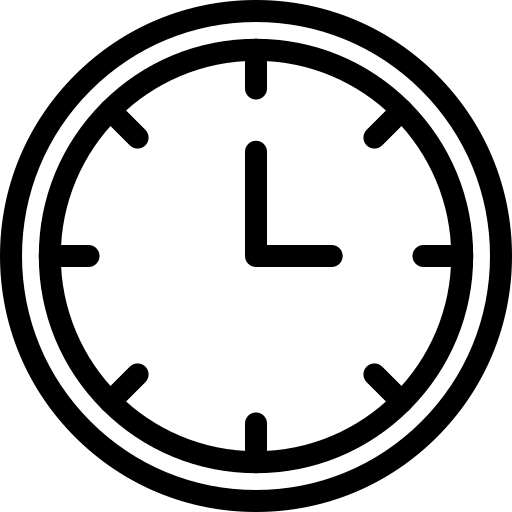
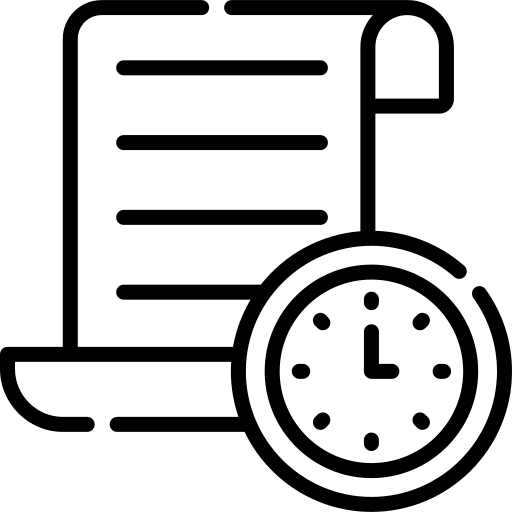
mejoras

diff --git a/templates/proyecto_total.html b/templates/proyecto_total.html
@@ -132,35 +132,25 @@
 
 {% block content %}
 <div class="horas-wrapper">
-    <div class="header-card" style="margin-bottom: 1.5rem;">
+    <div class="header-card"
+        style="margin-bottom: 1.5rem; display: flex; justify-content: space-between; align-items: center; flex-wrap: wrap; gap: 1rem;">
         <div class="header-titulos">
             <h1 class="main-title">Proyecto Total</h1>
             <p class="subtitle">Resumen acumulado de nómina por proyecto, incluyendo todas las semanas procesadas.</p>
         </div>
+
+        <div class="search-container" style="position: relative; min-width: 250px;">
+            <svg style="position: absolute; left: 12px; top: 10px; width: 18px; height: 18px; color: #94a3b8;"
+                fill="none" stroke="currentColor" viewBox="0 0 24 24" xmlns="http://www.w3.org/2000/svg">
+                <path stroke-linecap="round" stroke-linejoin="round" stroke-width="2"
+                    d="M21 21l-6-6m2-5a7 7 0 11-14 0 7 7 0 0114 0z"></path>
+            </svg>
+            <input type="text" id="buscadorProyectos" placeholder="Buscar proyecto o coordinador..."
+                style="width: 100%; padding: 10px 10px 10px 38px; border: 1px solid #e2e8f0; border-radius: 8px; font-size: 0.95rem; outline: none; transition: border-color 0.2s;">
+        </div>
     </div>
 
     {% if proyectos_data %}
-    <!-- Global summary bar -->
-    {% set gs = namespace(proyectos=0, semanas=0, total_pagado=0) %}
-    {% for pd in proyectos_data %}
-    {% set gs.proyectos = gs.proyectos + 1 %}
-    {% set gs.semanas = gs.semanas + pd.num_semanas %}
-    {% set gs.total_pagado = gs.total_pagado + pd.grand.total_a_pagar %}
-    {% endfor %}
-    <div class="page-summary-bar">
-        <div class="stat">
-            <div class="stat-label">Proyectos</div>
-            <div class="stat-value">{{ gs.proyectos }}</div>
-        </div>
-        <div class="stat">
-            <div class="stat-label">Semanas Totales</div>
-            <div class="stat-value">{{ gs.semanas }}</div>
-        </div>
-        <div class="stat">
-            <div class="stat-label">Gran Total Pagado</div>
-            <div class="stat-value" style="color: #16a34a;">${{ "%.2f"|format(gs.total_pagado) }}</div>
-        </div>
-    </div>
 
     {% for pd in proyectos_data %}
     <div class="project-card">

diff --git a/templates/base.html b/templates/base.html
@@ -200,18 +200,16 @@
             </a>
             <a href="{{ url_for('proyecto_total.index') }}"
                 class="{{ 'active' if request.endpoint == 'proyecto_total.index' }}">
-                <i class="fa-solid fa-chart-pie menu-icon"
-                    style="font-size: 18px; width: 20px; text-align: center; margin-right: 12px;"></i>
+                <img src="{{ url_for('static', filename='iconos/proyecto total.png') }}" class="menu-icon"
+                    alt="Proyecto Total">
                 Proyecto Total
             </a>
             <a href="{{ url_for('prestamos.index') }}" class="{{ 'active' if request.endpoint == 'prestamos.index' }}">
-                <i class="fa-solid fa-hand-holding-dollar menu-icon"
-                    style="font-size: 18px; width: 20px; text-align: center; margin-right: 12px;"></i>
+                <img src="{{ url_for('static', filename='iconos/prestamos.png') }}" class="menu-icon" alt="Préstamos">
                 Préstamos
             </a>
             <a href="{{ url_for('ajustes.index') }}" class="{{ 'active' if request.endpoint == 'ajustes.index' }}">
-                <i class="fa-solid fa-sliders menu-icon"
-                    style="font-size: 18px; width: 20px; text-align: center; margin-right: 12px;"></i>
+                <img src="{{ url_for('static', filename='iconos/ajuste.png') }}" class="menu-icon" alt="Ajuste">
                 Ajuste
             </a>
             {% endif %}
@@ -226,8 +224,8 @@
             </a>
             {% if session.get('role') == 'coordinador' %}
             <a href="{{ url_for('ficha.index') }}" class="{{ 'active' if request.endpoint == 'ficha.index' }}">
-                <i class="fa-regular fa-address-card menu-icon"
-                    style="font-size: 18px; text-align: center; margin-right: 12px;"></i>
+                <img src="{{ url_for('static', filename='iconos/ficha tecnica.png') }}" class="menu-icon"
+                    alt="Ficha Técnica">
                 Ficha Técnica
             </a>
             {% endif %}

diff --git a/static/js/proyecto_total.js b/static/js/proyecto_total.js
@@ -15,4 +15,24 @@ document.addEventListener('DOMContentLoaded', function () {
             }
         });
     });
+
+    // Filtro de proyectos
+    const buscador = document.getElementById('buscadorProyectos');
+    if (buscador) {
+        buscador.addEventListener('input', function () {
+            const term = this.value.toLowerCase().trim();
+            const cards = document.querySelectorAll('.project-card');
+
+            cards.forEach(card => {
+                // Obtenemos el texto del nombre del proyecto (incluye el número, nombre y coordinador)
+                const headerText = card.querySelector('.project-header').textContent.toLowerCase();
+
+                if (term === '' || headerText.includes(term)) {
+                    card.style.display = 'block';
+                } else {
+                    card.style.display = 'none';
+                }
+            });
+        });
+    }
 });

diff --git a/static/css/horas.css b/static/css/horas.css
@@ -44,7 +44,7 @@
 }
 
 .header-titulos .main-title {
-    font-size: 2rem;
+    font-size: 1.75rem;
     font-weight: 800;
     margin: 0;
     background: linear-gradient(135deg, #111827 0%, #4B5563 100%);

diff --git a/static/css/trabajadores.css b/static/css/trabajadores.css
@@ -45,7 +45,7 @@
 }
 
 .header-titulos .main-title {
-    font-size: 2rem;
+    font-size: 1.75rem;
     font-weight: 800;
     margin: 0;
     background: linear-gradient(135deg, #111827 0%, #4B5563 100%);

diff --git a/static/css/profile.css b/static/css/profile.css
@@ -39,7 +39,7 @@
 }
 
 .profile-header .main-title {
-    font-size: 2.5rem;
+    font-size: 1.75rem;
     font-weight: 800;
     color: var(--text-main);
     margin: 0;

diff --git a/static/css/users.css b/static/css/users.css
@@ -41,7 +41,7 @@
 }
 
 .header-titles .main-title {
-    font-size: 2.25rem;
+    font-size: 1.75rem;
     font-weight: 800;
     color: var(--text-main);
     margin: 0;

diff --git a/static/css/two_factor.css b/static/css/two_factor.css
@@ -56,7 +56,7 @@
 }
 
 .main-title {
-    font-size: 1.75rem;
+    font-size: 1.5rem;
     font-weight: 800;
     color: var(--text-main);
     margin: 0;

diff --git a/tests/test_auth.py b/tests/test_auth.py
@@ -40,9 +40,9 @@ class TestAccessControl:
         assert resp.status_code in [302, 303]
         assert 'login' in resp.headers.get('Location', '')
 
-    def test_coordinador_no_accede_trabajadores(self, logged_in_coordinador):
+    def test_coordinador_accede_trabajadores(self, logged_in_coordinador):
         resp = logged_in_coordinador.get('/trabajadores/', follow_redirects=True)
-        assert b'denegado' in resp.data.lower()
+        assert resp.status_code == 200
 
     def test_coordinador_accede_horas(self, logged_in_coordinador):
         resp = logged_in_coordinador.get('/horas/', follow_redirects=False)
